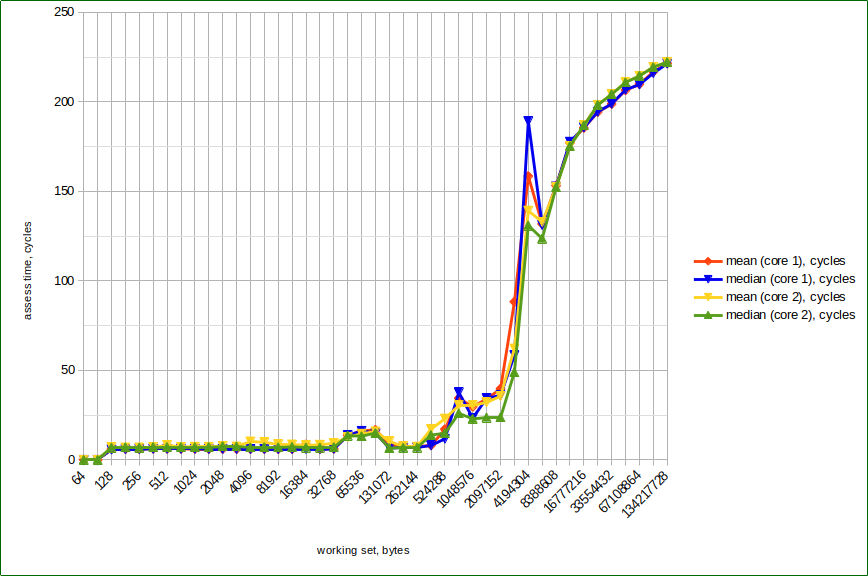
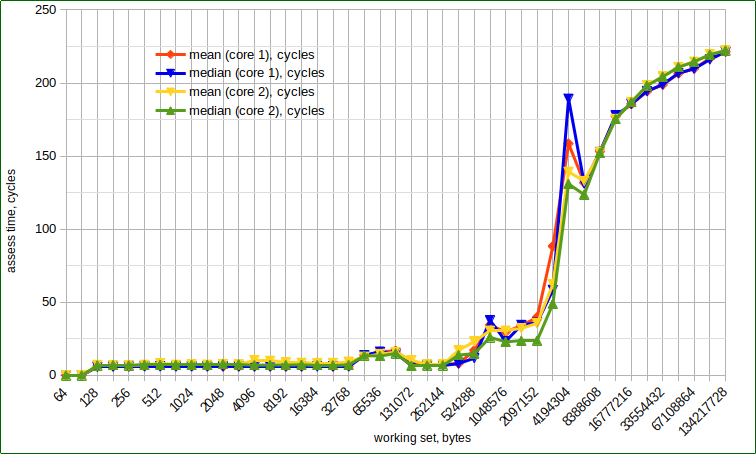
added one more result for Intel i3 8130 cpu

Changed region(s): [[0.0, 0.0, 1.0, 1.0]]

diff --git a/src/main.cpp b/src/main.cpp
@@ -146,7 +146,7 @@ int main(int argc, char* argv[]) {
     unsigned short cpuid = 1;
     bool go_parse = true;
     const char* prog_name = argv[0];
-    struct option long_opts[] = {{"help", 0, nullptr, 'h'},
+    const struct option long_opts[] = {{"help", 0, nullptr, 'h'},
         {"cpu", 1, nullptr, 'c'}, {"working-set", 1, nullptr, 'w'}, {}};
 
     if (auto p = std::strrchr(prog_name, '/'))
@@ -193,10 +193,10 @@ int main(int argc, char* argv[]) {
             return 1;
         }
 
-    if (! set_thread_affinity(cpuid))
+    if (! set_thread_affinity(cpuid)) {
         std::cerr << "unable to bound to cpuid "sv << cpuid << std::endl;
-    else
-        std::cout << "bound to cpuid=" << cpuid << '\n';
+        return 2;
+    }
 
     max_working_set_size *= 1024*1024ul;
     const auto cpu_freq = get_cpu_freq_ghz();
@@ -221,13 +221,16 @@ int main(int argc, char* argv[]) {
             }
         };
 
-    std::cout
-        << "trying randomly accessed wheel with nodes of size="sv << sizeof(node) << "\n\n"
-        << std::setw(print_col_size) << "working set"sv
-        << std::setw(print_col_size) << "mean, cycles"sv
-        << std::setw(print_col_size) << "median, cycles"sv
-        << std::setw(print_col_size) << "mean, ns"sv
-        << std::setw(print_col_size) << "median, ns"sv << '\n';
+    std::cout <<
+        "tsc frequency, Ghz       : " << cpu_freq << "\n"
+        "working set size, Mb     : " << max_working_set_size / 1024 / 1024 << "\n"
+        "single data item size, b : " << sizeof(node) << "\n"
+        "--------------------------------------\n" <<
+        std::setw(print_col_size) << "working set"sv <<
+        std::setw(print_col_size) << "mean, cycles"sv <<
+        std::setw(print_col_size) << "median, cycles"sv <<
+        std::setw(print_col_size) << "mean, ns"sv <<
+        std::setw(print_col_size) << "median, ns"sv << '\n';
 
     for (std::size_t ws_size = s_cache_line_size * 2; ws_size <= max_working_set_size; ws_size <<= 1) {
         run_and_print_test(ws_size, container.get());

diff --git a/README.md b/README.md
@@ -16,7 +16,7 @@ at the same good old Intel(R) Core(TM) i3-2367M CPU @ 1.40GHz, I can see access 
 around CPU caches sizes. Let me remind you that the CPU has L1 - 64Kb, L2 - 256 Kb, L3 - 3Mb. The
 graph shows results of running the test on one specific CPU core (cpuid=1). OS was isolated on
 another cpuid=0 during the test.
-![graph2](graph-20220206-intel_i3_2367M.png)
+![graph2](graph-20220209-intel_i3_2367M.png)
 
 What has been changed since that good old times? Recently I've bought mass market HP notebook with
 AMD Ryzen 5 5500U and repeat the test on it. The CPU has L1 - 64Kb, L2 - 512Kb, L3 - 8Mb (from
@@ -27,4 +27,12 @@ cores (cpuid=1 then cpuid=2). OS wasn't isolated.
 ![graph3](graph-20220206-amd_ryzen_5_5500U.png)
 
 It looks like central memory access time became even worse than 10 years ago (please, don't blame
-me that I compare different OEM manufacturers - Asus and HP, and different CPU manufacturers).
+me that I compare different OEM manufacturers - Asus and HP, and different CPU manufacturers). But only
+if we cound CPU cycles, not real nanoseconds.
+
+One more measured CPU, provided by my friend, is shown on the next graph. It's an Intel(R) Core(TM)
+i3-8130U CPU @ 2.20GHz. It has L1 - 64Kb, L2 - 512Kb, L3 - 4Mb. To tell the truth, I don't see any
+observable difference between L2 and L3 here. And again, caches stop working slightly earlier than
+working set reachs corresponding size.
+![graph4](graph-20220209-intel_i3_8130U.png)
+
